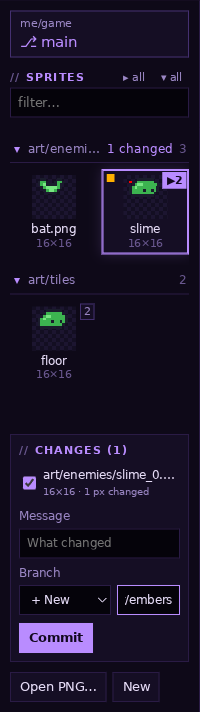
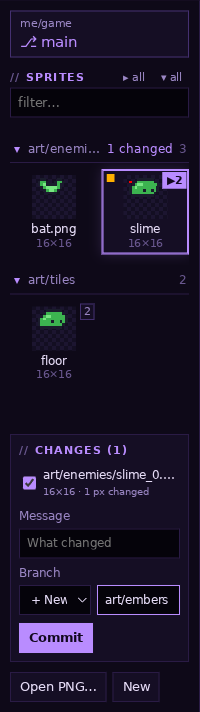
Narrow the picker to its label in new-branch mode

Changed region(s): [[0.45, 0.8034, 0.87, 0.8652]]

diff --git a/spritewright.js b/spritewright.js
@@ -840,7 +840,7 @@
 .pf-branchrow select{flex:1;min-width:0}
 .pf-branchrow input{flex:1;min-width:0}
 /* Naming a new branch: the picker shrinks to its + New label, so the name field gets the room. */
-.pf-branchrow:has(.pf-commit-branch:not([hidden])) .pf-commit-branches{flex:0 1 92px}
+.pf-branchrow:has(.pf-commit-branch:not([hidden])) .pf-commit-branches{flex:none;width:72px}
 .pf-commit .pf-row{margin-top:8px}
 .pf-commit-note{margin-top:6px}
 .pf-commit-note:empty{display:none}
